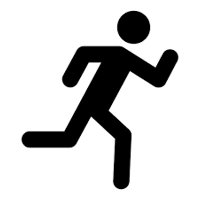
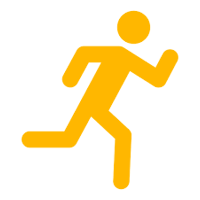
Update layout
- Change keypress mode to have on button press, not release
- Update layout
- Update images to stand out more

Changed region(s): [[0.09, 0.03, 0.9, 0.96]]

diff --git a/index.html b/index.html
@@ -7,26 +7,26 @@
 </head>
 <body>
 
-    <div class="top-div"><h2>One Punch Man Challenge Counter</h2></div>
+    <div class="top-div"><h2>OPM Challenge Counter</h2></div>
 
 <div class="wrapper">
 <div class="middle-div-left"><h2><img class="icon-img" src="pushups.png"></h2> <h2>100/100</h2></div>
-<div class="middle-div-right"><button onclick="vibrate()">+10</button></div>
+<div class="middle-div-right"><button onmousedown="vibrate()">+10&nbsp;</button></div>
 </div>
 
 <div class="wrapper">
 <div class="middle-div-left"><h2><img class="icon-img" src="situps.png"></h2> <h2>100/100</h2></div>
-<div class="middle-div-right"><button onclick="vibrate()">+10</button></div>
+<div class="middle-div-right"><button onmousedown="vibrate()">+10&nbsp;</button></div>
 </div>
 
 <div class="wrapper">
 <div class="middle-div-left"><h2><img class="icon-img" src="squats.png"></h2> <h2>100/100</h2></div>
-<div class="middle-div-right"><button onclick="vibrate()">+10</button></div>
+<div class="middle-div-right"><button onmousedown="vibrate()">+10&nbsp;</button></div>
 </div>
 
 <div class="wrapper">
 <div class="middle-div-left"><h2><img class="icon-img" src="running.png"></h2> <h2>10/10</h2></div>
-<div class="middle-div-right"><button onclick="vibrate()">+1</button></div>
+<div class="middle-div-right"><button onmousedown="vibrate()">+1&nbsp;</button></div>
 </div>
 
 
